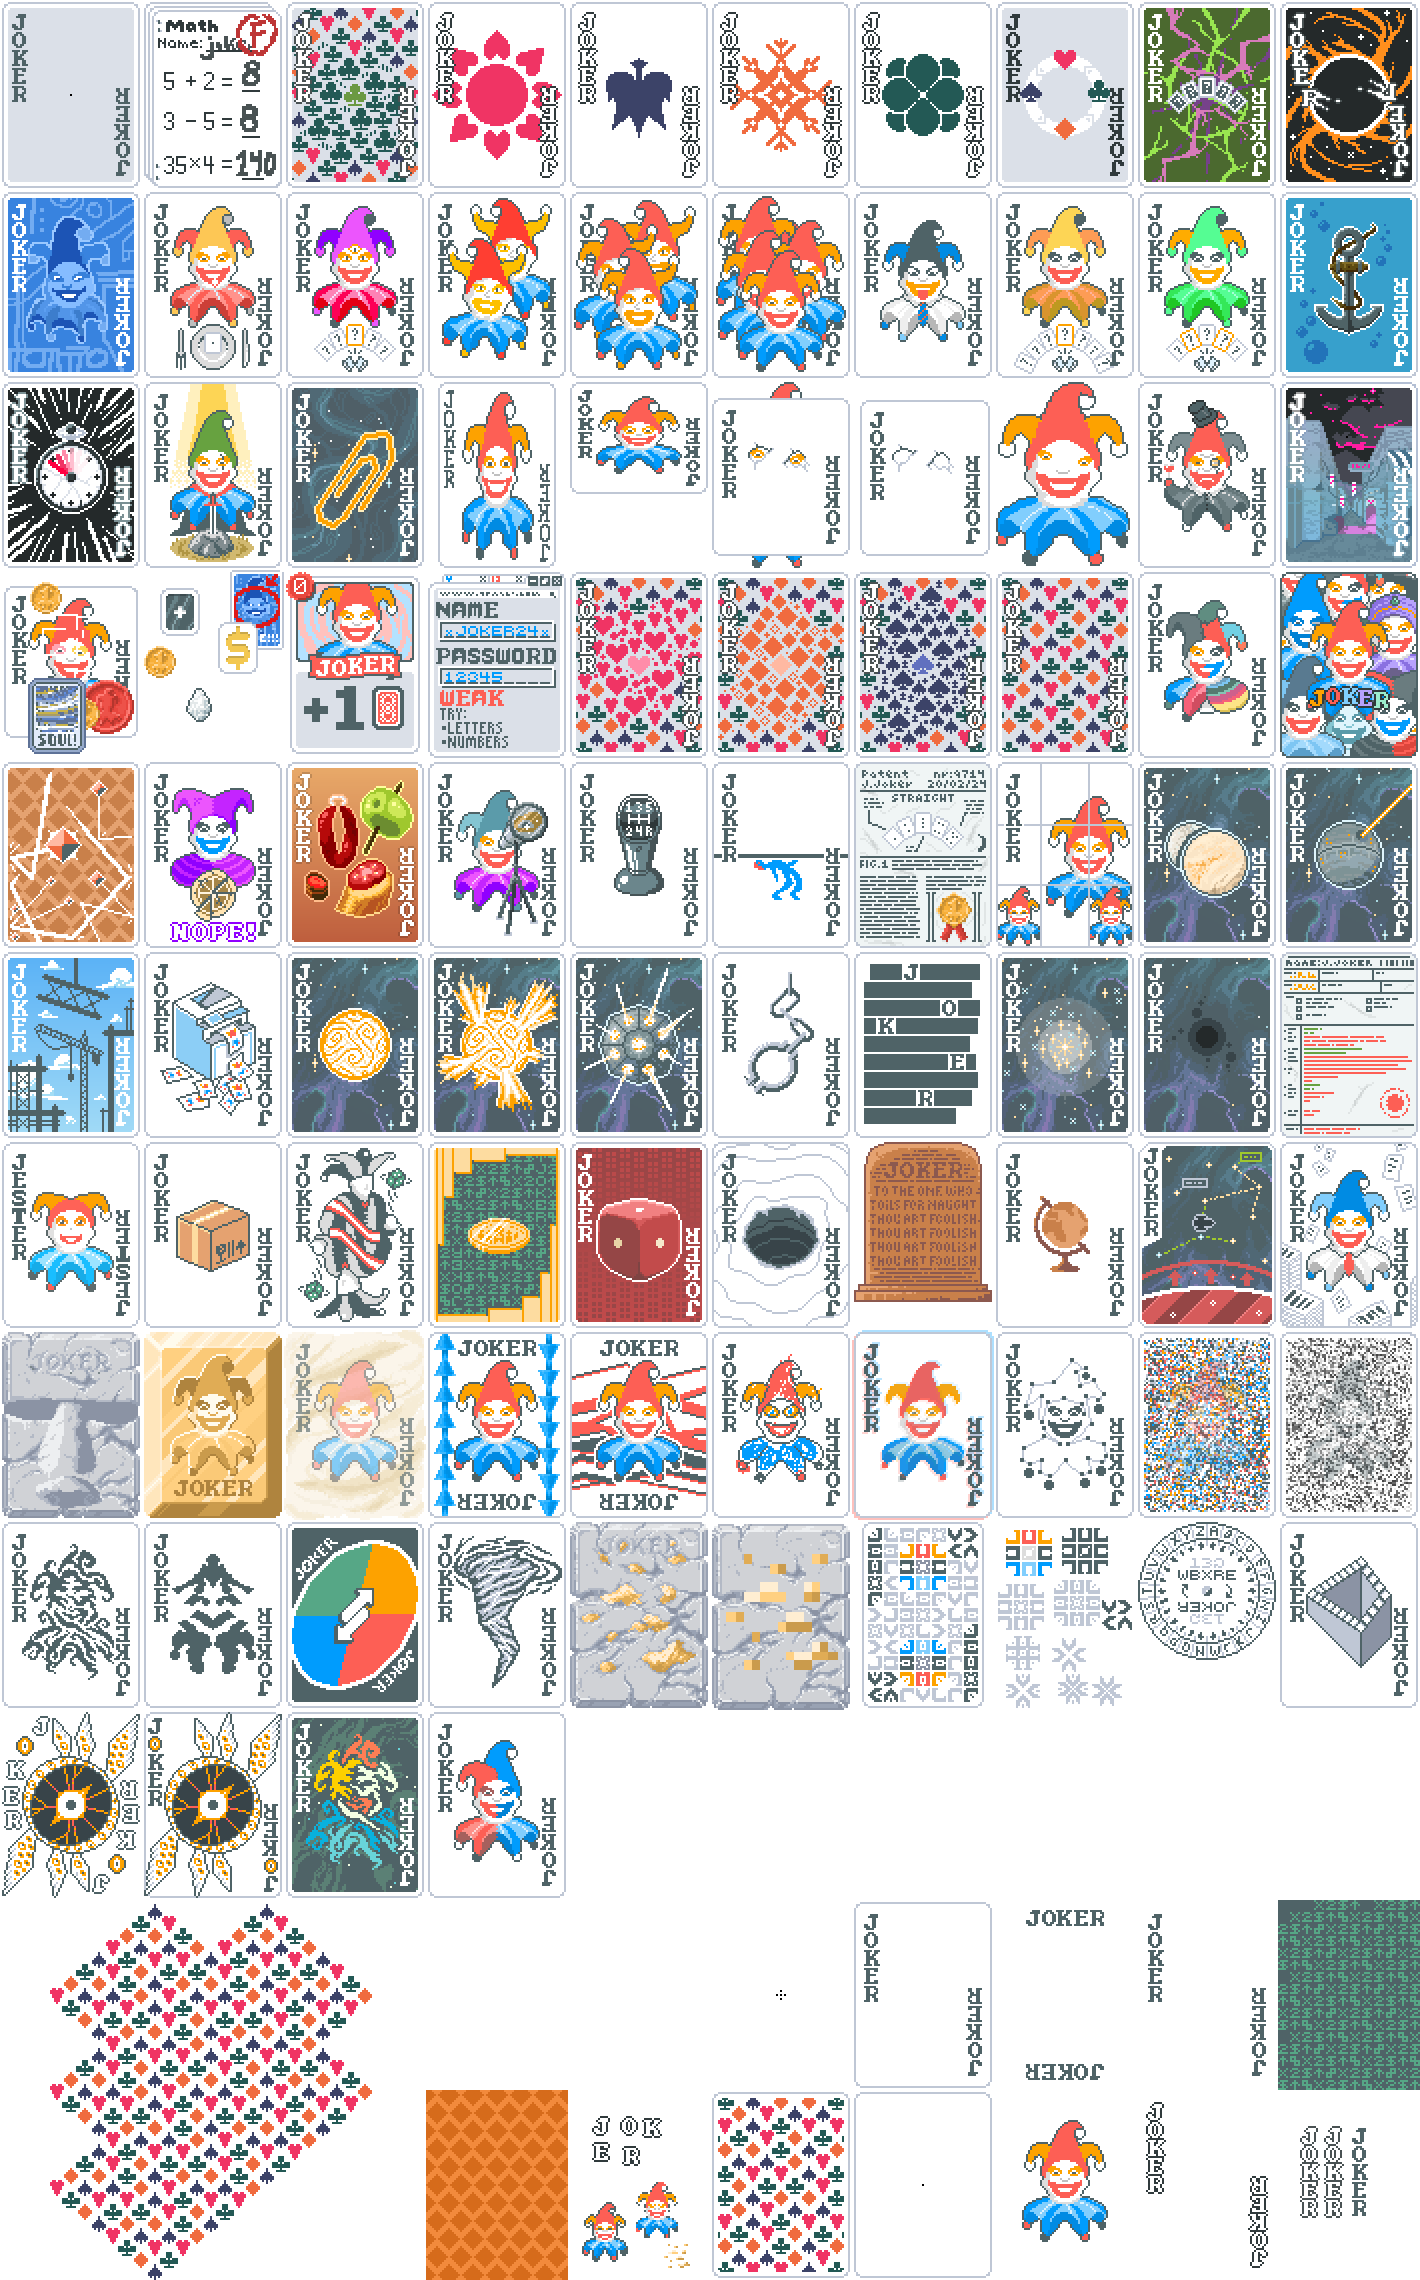
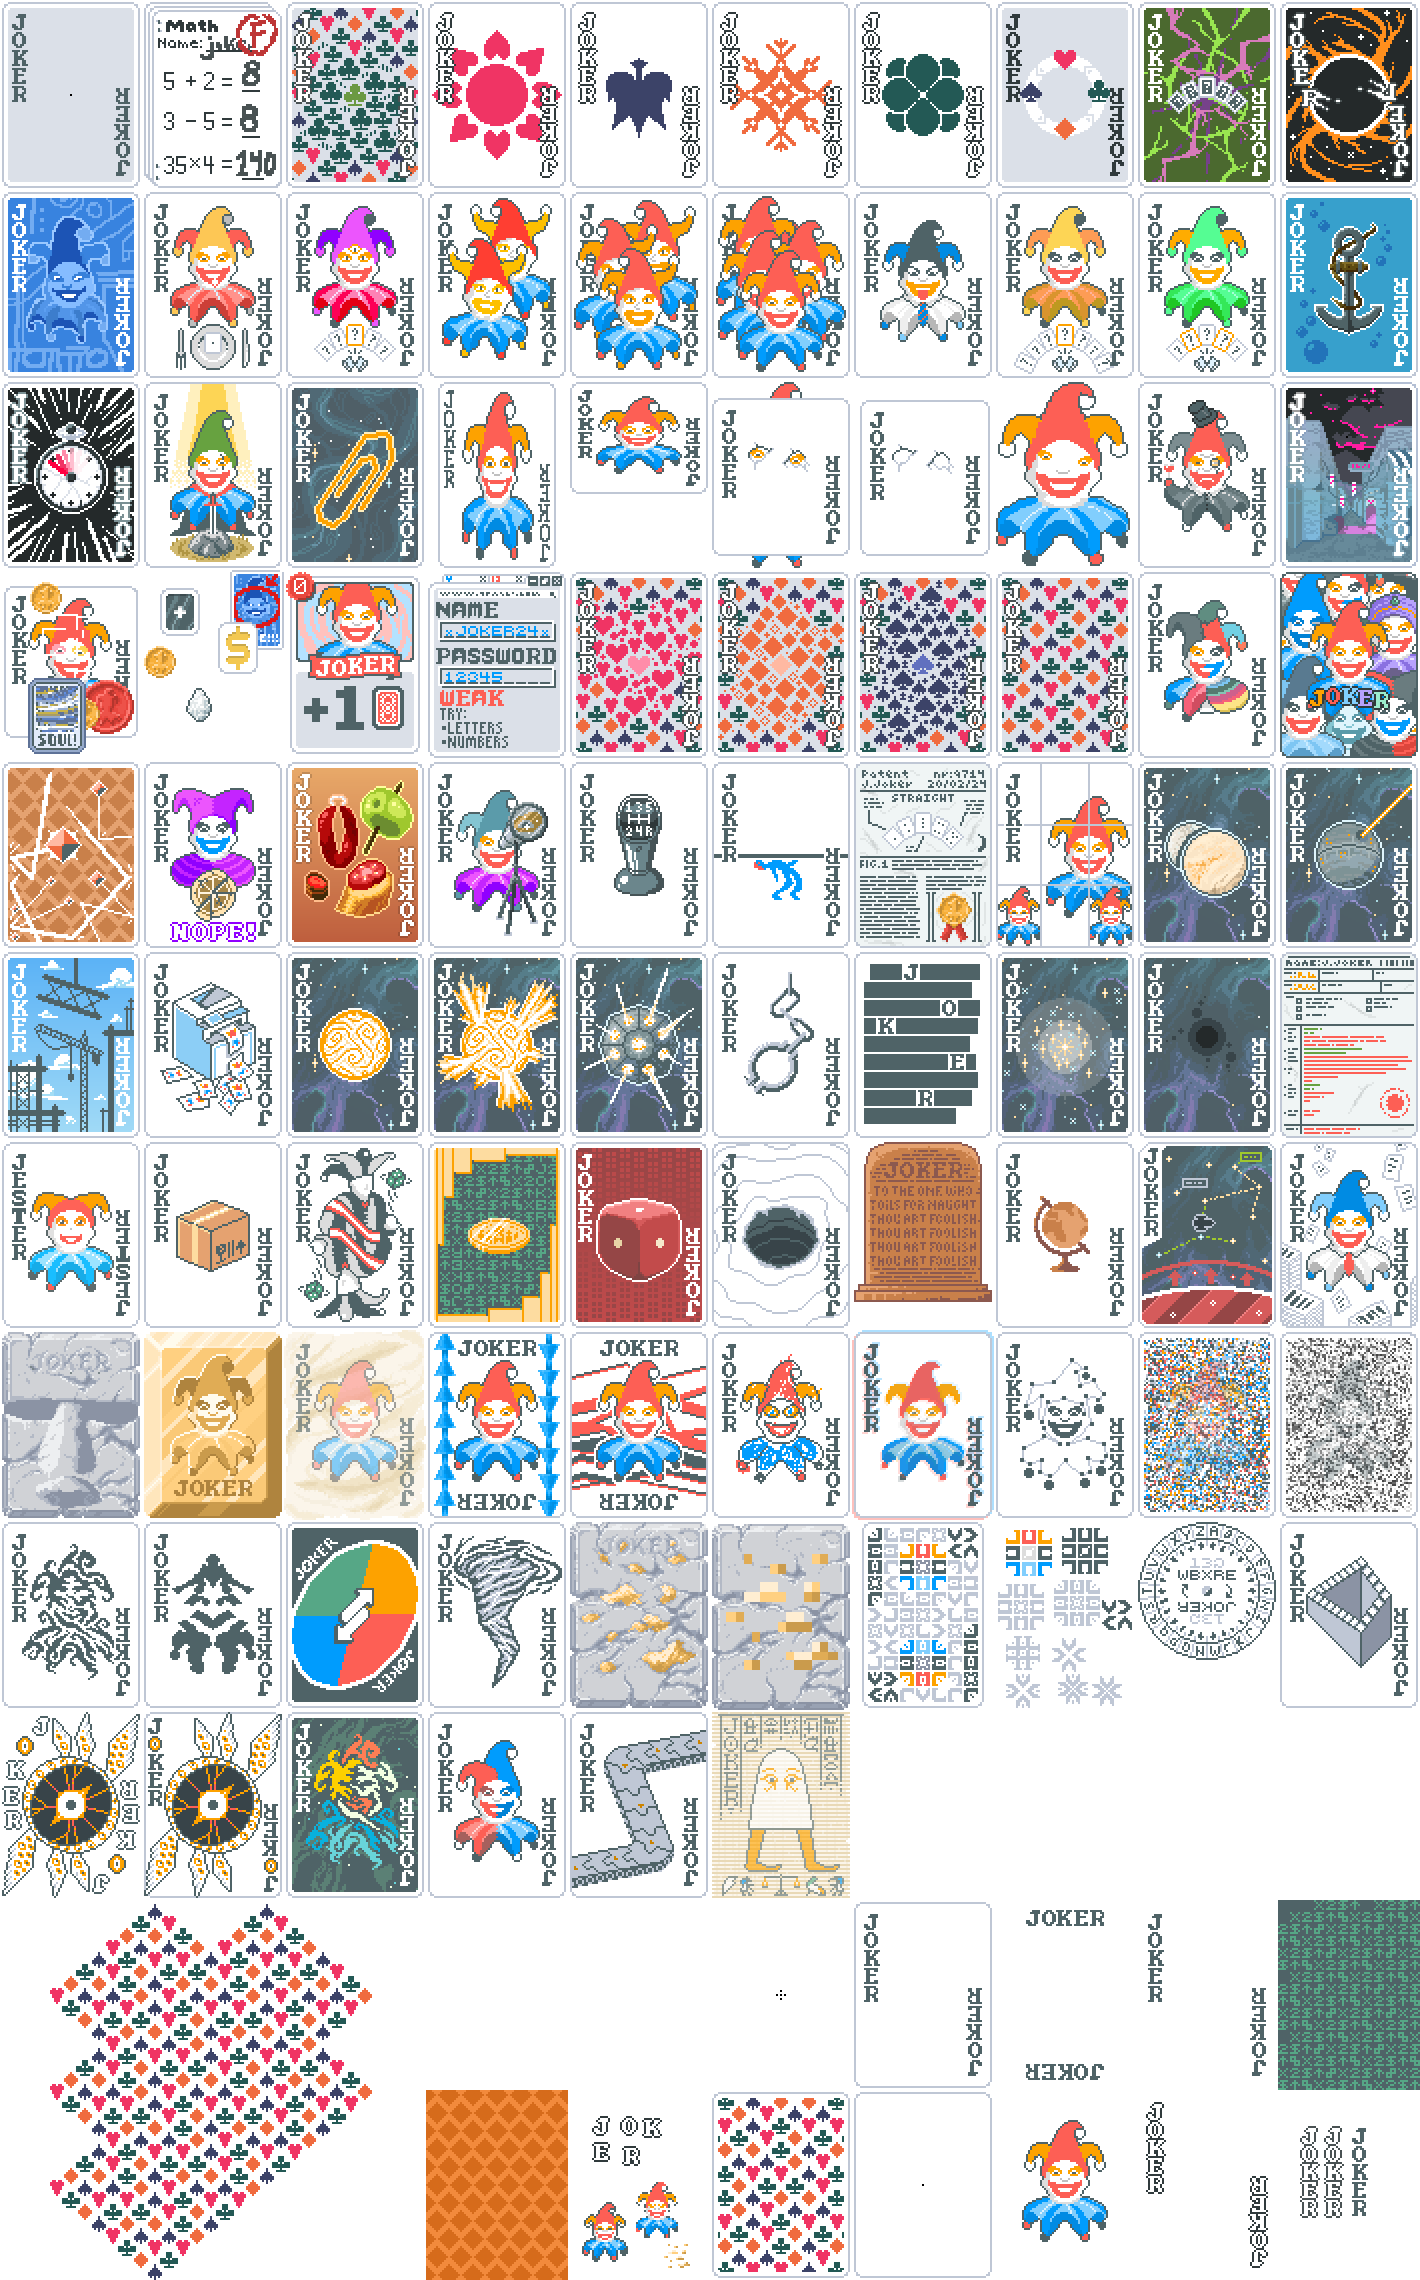
Add Book of the Dead

Changed region(s): [[0.4028, 0.7474, 0.6197, 0.8408]]

diff --git a/web/addjokers.js b/web/addjokers.js
@@ -7,6 +7,8 @@ let suits = ["Hearts", "Diamonds", "Clubs", "Spades"]
 let ranks = ["2", "3", "4", "5", "6", "7", "8", "9", "10", "Jack", "Queen", "King", "Ace"]
 let faces = ["Jack", "Queen", "King"]
 
+let poker_hands = ["High Card", "Pair", "Two Pair", "Three of a Kind", "Straight", "Flush", "Full House", "Four of a Kind", "Straigh Flush", "Five of a Kind", "Flush House", "Flush Five"]
+
 let printer_suit = suits[Math.floor(Math.random() * suits.length)]
 let moai_suit = suits[Math.floor(Math.random() * suits.length)]
 
@@ -691,6 +693,14 @@ let jokers = [
     ],
     image_url: "img/j/versatile.png",
     rarity: "Common"
+  },
+  {
+    name: "Book of the Dead",
+    text: [
+        "If {C:attention}first hand{} of round is a {C:attention}"+poker_hands[Math.floor(Math.random() * poker_hands.length)]+"{}, destroy it, poker hand changes at end of round",
+    ],
+    image_url: "img/j/book_of_the_dead.png",
+    rarity: "Uncommon"
   },
 
   // {
